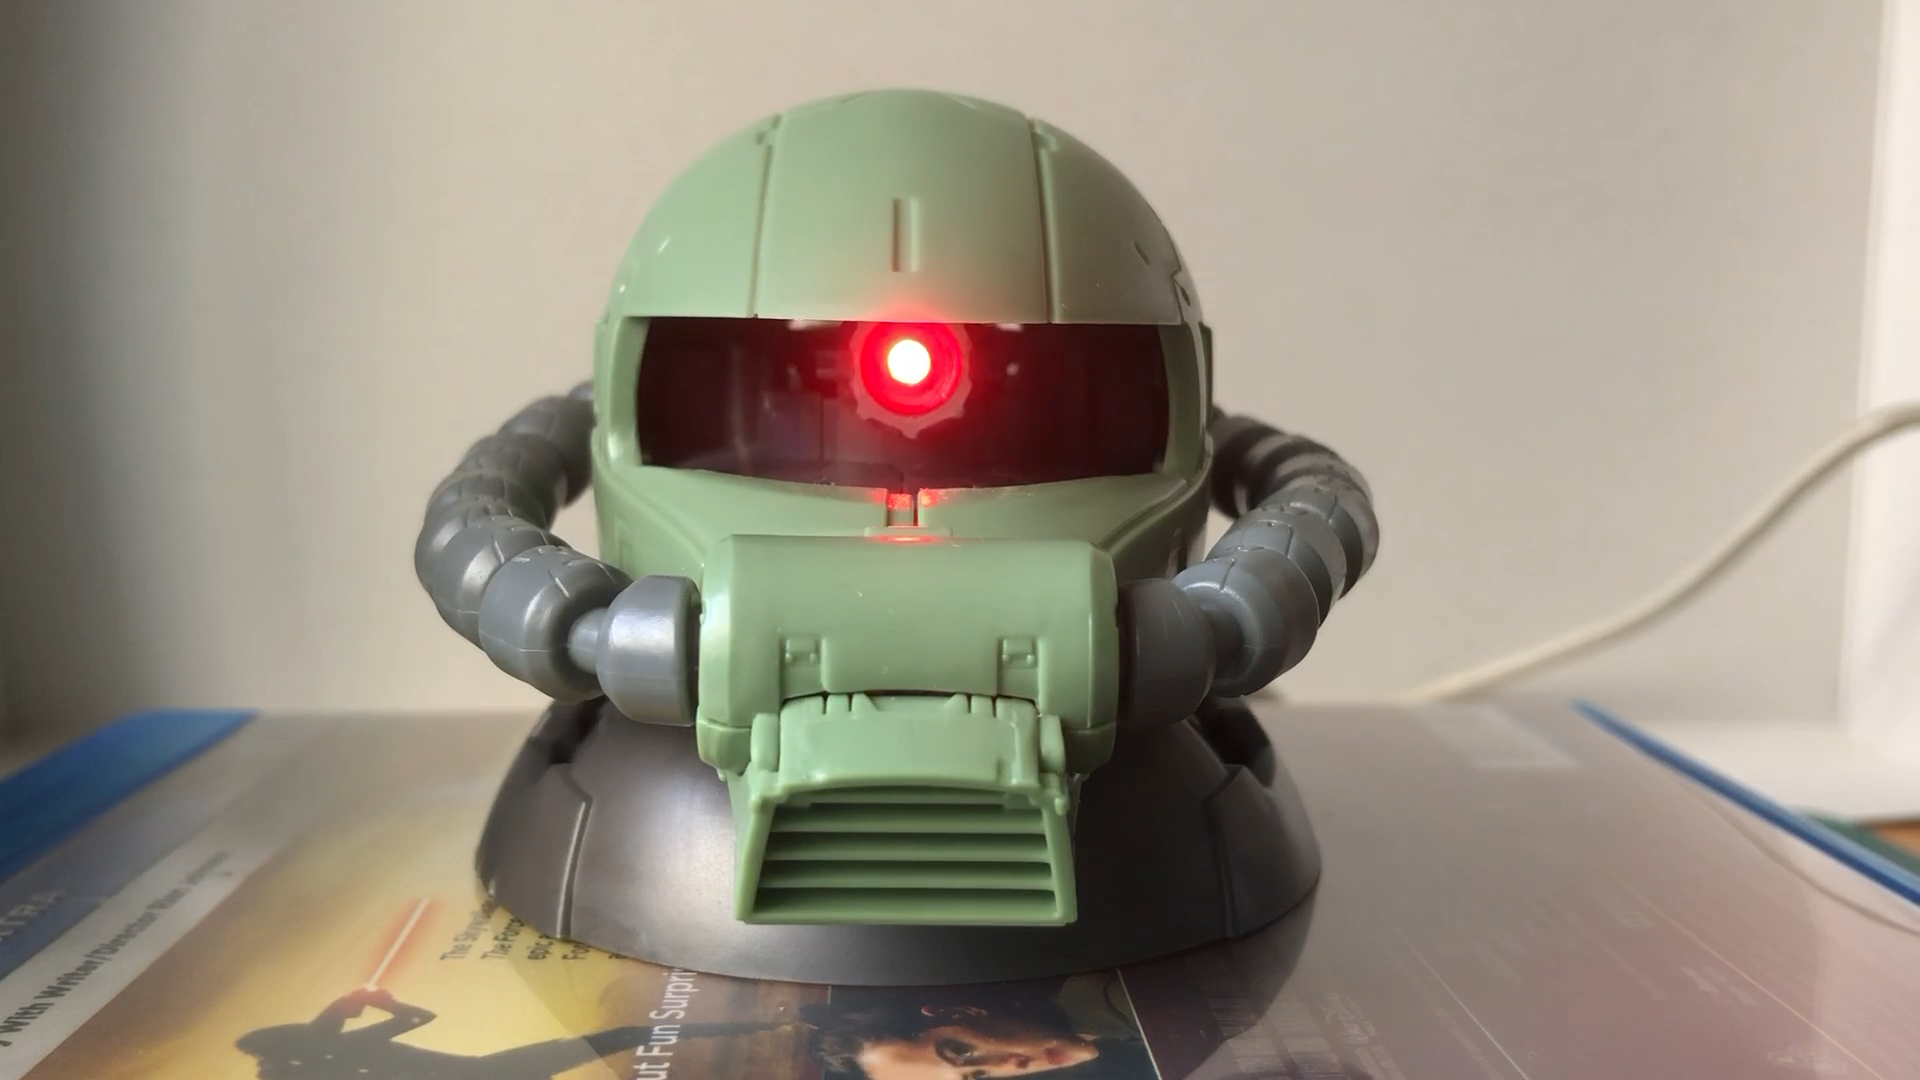
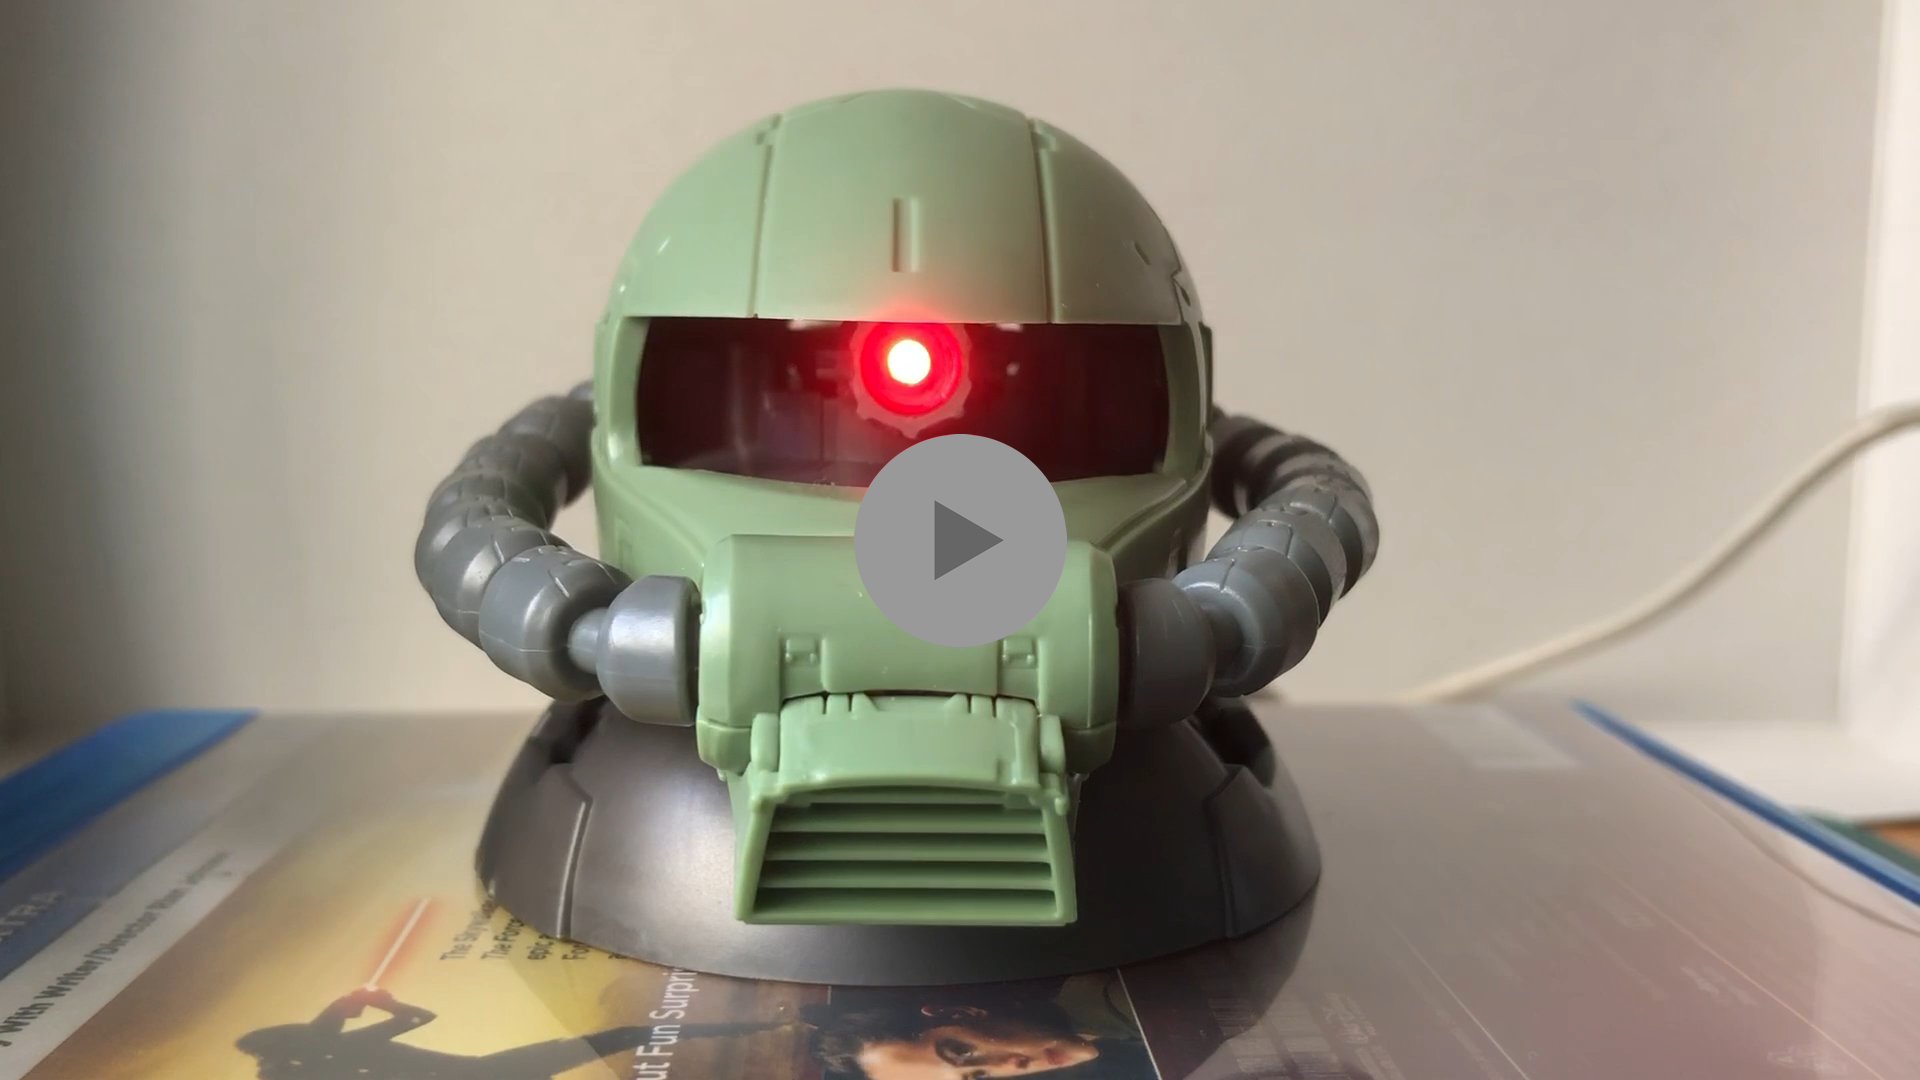
Add demo video

Changed region(s): [[0.4375, 0.3972, 0.5625, 0.6111]]

diff --git a/README.md b/README.md
@@ -1,6 +1,4 @@
 # ZakuHead
-### Demo
-[![Watch the video](https://raw.githubusercontent.com/pikama/ZakuHead/master/img/demo.png)](https://streamable.com/e/cv392d)
 
     move splitPCM to C:\Users\username\Documents\Arduino\libraries
 
@@ -22,3 +20,6 @@
 
 ### Wiring
 ![alt text](img/circuit.png)
+
+### Demo
+[![Watch the video](img/demo.png)](https://streamable.com/e/cv392d)
